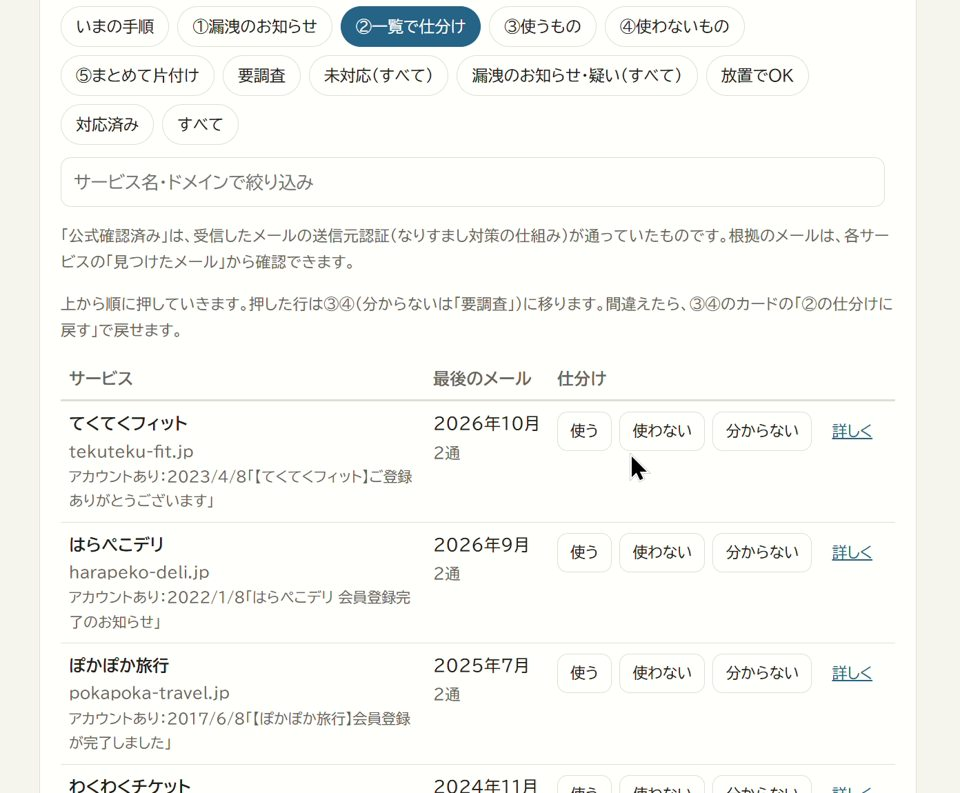
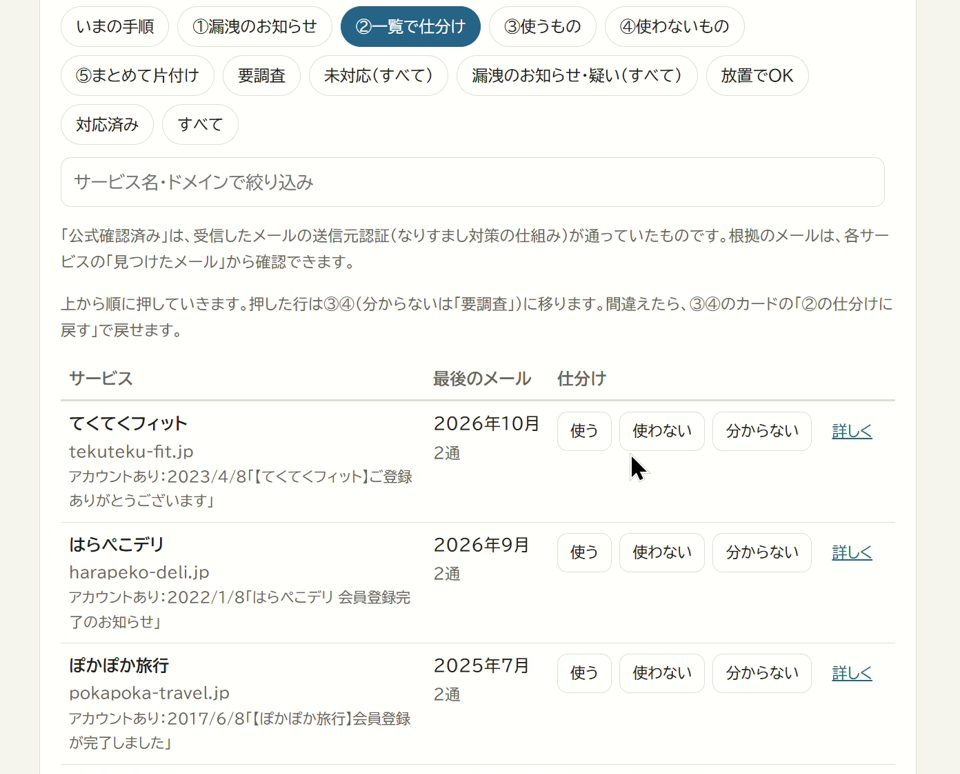
up

diff --git a/id-osouji.html b/id-osouji.html
@@ -18,7 +18,7 @@
 <figure><figcaption>2　漏れたら拡大防止！鍵を掛け直す方法</figcaption><a href="images/id-osouji/manga-2.jpg" target="_blank" rel="noopener"><img src="images/id-osouji/manga-2.jpg" alt="マンガ2：漏れたら絶対拡大防止！鍵を掛け直す方法" loading="lazy" width="900" height="1612"></a></figure>
 <figure><figcaption>3　クレカ未登録でも安心できない？「名寄せ」のワナ</figcaption><a href="images/id-osouji/manga-3.jpg" target="_blank" rel="noopener"><img src="images/id-osouji/manga-3.jpg" alt="マンガ3：クレカ未登録でも安心できない？名寄せのワナ" loading="lazy" width="900" height="1612"></a></figure>
 <figure><figcaption>おまけ1　メールがバラバラ！？ Thunderbirdでひとまとめ！</figcaption><a href="images/id-osouji/omake-1.jpg" target="_blank" rel="noopener"><img src="images/id-osouji/omake-1.jpg" alt="おまけ1：メールがバラバラ！？ Thunderbirdでひとまとめ！" loading="lazy" width="900" height="1612"></a></figure>
-<figure><figcaption>おまけ2　Thunderbirdにまとめよう！追加はかんたん3ステップ</figcaption><a href="images/id-osouji/omake-2.jpg" target="_blank" rel="noopener"><img src="images/id-osouji/omake-2.jpg" alt="おまけ2：Thunderbirdにまとめよう！追加はかんたん3ステップ" loading="lazy" width="900" height="1612"></a></figure>
+<figure><figcaption>おまけ2　Thunderbirdにまとめよう！追加はかんたん3ステップ</figcaption><a href="images/id-osouji/omake-2.jpg?v=3" target="_blank" rel="noopener"><img src="images/id-osouji/omake-2.jpg?v=3" alt="おまけ2：Thunderbirdにまとめよう！追加はかんたん3ステップ" loading="lazy" width="900" height="1612"></a></figure>
 </div>
 <p class="note">おまけ1・2は、Thunderbirdを使うと便利になることの紹介です。IDおそうじを使うのに、Thunderbirdは必須ではありません（Outlookのデータファイルや、書き出したメールファイルも読み込めます）。</p>
 
@@ -42,9 +42,9 @@
 
 <h2>画面</h2>
 <div class="shots">
-<figure><figcaption>見つかったサービスの数と、①〜⑤の進め方</figcaption><a href="images/id-osouji/shot-summary.jpg" target="_blank" rel="noopener"><img src="images/id-osouji/shot-summary.jpg" alt="見つかったサービスの数と、進め方" loading="lazy"></a></figure>
-<figure><figcaption>漏洩のお知らせと、おすすめの対応</figcaption><a href="images/id-osouji/shot-leak.jpg" target="_blank" rel="noopener"><img src="images/id-osouji/shot-leak.jpg" alt="漏洩のお知らせが届いていたサービス" loading="lazy"></a></figure>
-<figure><figcaption>「使う」「使わない」を押していくだけの仕分け</figcaption><a href="images/id-osouji/shot-sort.jpg" target="_blank" rel="noopener"><img src="images/id-osouji/shot-sort.jpg" alt="一覧で仕分け" loading="lazy"></a></figure>
+<figure><figcaption>見つかった数と進め方</figcaption><a href="images/id-osouji/shot-summary.jpg?v=2" target="_blank" rel="noopener"><img src="images/id-osouji/shot-summary.jpg?v=2" alt="見つかったサービスの数と、進め方" loading="lazy"></a></figure>
+<figure><figcaption>漏洩のお知らせと対応</figcaption><a href="images/id-osouji/shot-leak.jpg" target="_blank" rel="noopener"><img src="images/id-osouji/shot-leak.jpg" alt="漏洩のお知らせが届いていたサービス" loading="lazy"></a></figure>
+<figure><figcaption>押していくだけの仕分け</figcaption><a href="images/id-osouji/shot-sort.jpg?v=2" target="_blank" rel="noopener"><img src="images/id-osouji/shot-sort.jpg?v=2" alt="一覧で仕分け" loading="lazy"></a></figure>
 </div>
 
 <h2>安心のしくみ</h2>

diff --git a/css/style.css b/css/style.css
@@ -89,3 +89,5 @@ figcaption{font-size:.88rem;font-weight:700;margin-top:10px;color:var(--cream)}
 .proof figcaption{font-size:.8rem;margin-top:6px}
 
 .manga figcaption,.video figcaption,.shots figcaption{margin:0 0 10px;font-size:1rem}
+.shots figcaption{min-height:1.6em}
+.shots img{aspect-ratio:960/774;object-fit:cover;object-position:top}
